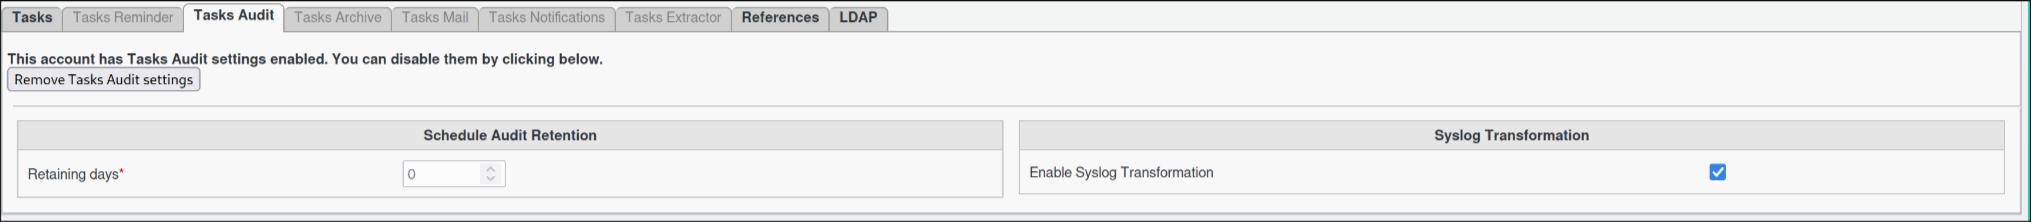
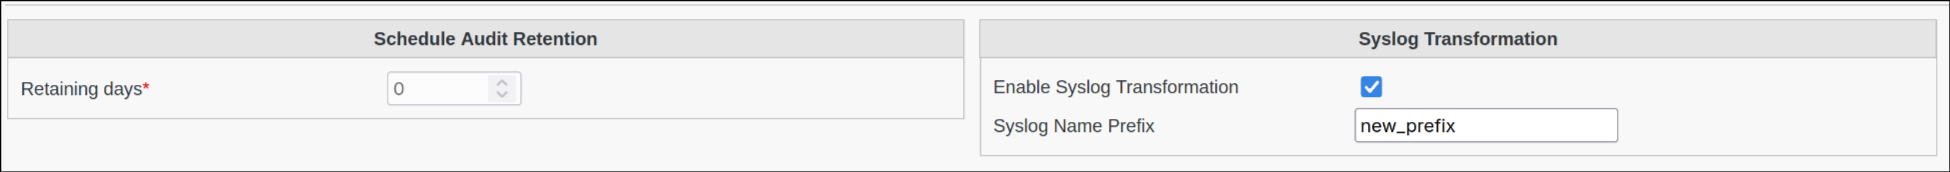
:bulb: docs(audit): add note about syslog file prefix configuration

diff --git a/source/fusiondirectory/plugins/audit/auditTask.rst b/source/fusiondirectory/plugins/audit/auditTask.rst
@@ -37,6 +37,9 @@ Configuring Audit Task
       :alt: Audit - Syslog Transformation option
       :width: 600px
 
+.. NOTE::
+  You may set a specific prefix for the syslog file, which will be used to name the daily syslog files. If not set, the default prefix will be used.
+
 Task Execution
 --------------
 
